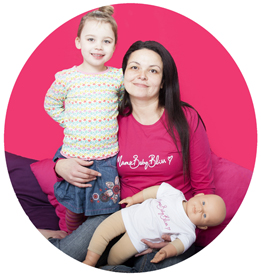
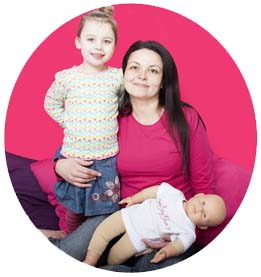
Update about.html

diff --git a/about.html b/about.html
@@ -68,7 +68,7 @@
           <hr>
               <div><h2>Linda Norman</h2></div>
             <div id="aboutblock">
-              <div class="aboutlinda"><p><img src="images/lindanorman.jpg" width="200" height="200" align="left">I am a Teacher with 3 'babies' of my own, ranging in ages from 4 to 22!
+              <div class="aboutlinda"><p><img src="images/lindanorman.png" width="200" height="200" align="left">I am a Teacher with 3 'babies' of my own, ranging in ages from 4 to 22!
                       I'm a primary school teacher who retrained so I could fit my career around my youngest daughter- who you will get to meet if you join one of the pregnancy yoga classes.  Laila’s the VIP team member, in charge of handing out belts and blocks – colour co-ordinated of course!
 
                       I teach baby massage, yoga, pregnancy yoga, Birth Preparation Workshops and also Hypnobirthing. I believe that Dads also have a very important role during labour and also after birth so I also offer the popular Baby Yoga with Daddy courses as well as Birth Preparation Classes.

diff --git a/css/landingstyle.css b/css/landingstyle.css
@@ -43,13 +43,16 @@ hr {
 }
 
 #aboutblock {
-	border: 5px solid black;
+	/*border: 5px solid black;
 	border-radius: 15px;
-	background-color: white;
+	background-color: white;*/
 }
 
 .aboutlinda {
-	color: black;
+	color: #393939;
+	font-size: 15.5px;
+	text-shadow: none;
+	border: none;
 }
 
 .logo2 {
